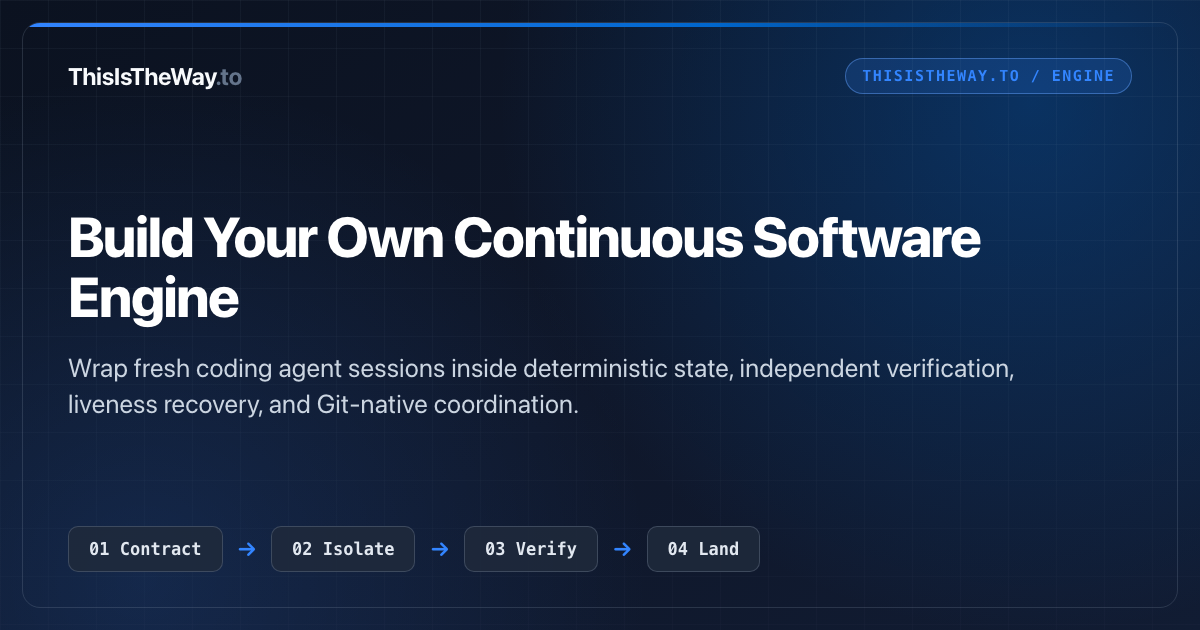
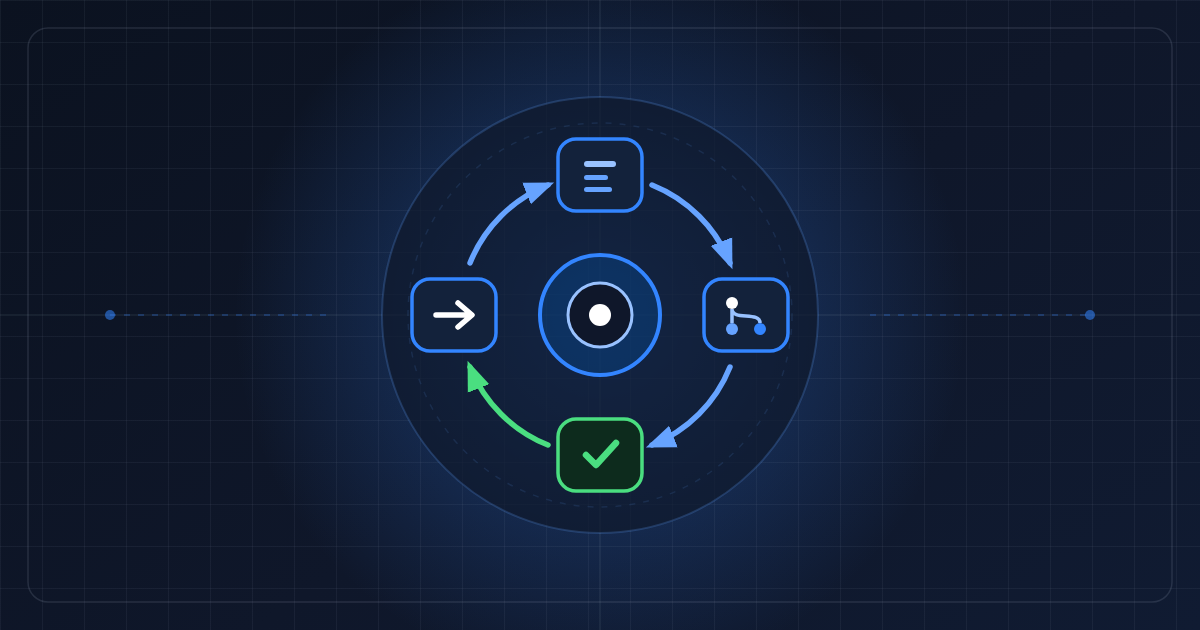
fix(seo): replace text-heavy OG images with center-safe geometric emblems
Compact link unfurlers center-crop og:image into a 1:1 thumbnail beside the title and description, which clipped wide text cards. Replace all eight OG cards with crisp, text-free architectural blueprint emblems centered inside the 630x630 safe square so both square thumbnails and wide 1200x630 social cards render cleanly.

diff --git a/site/src/main.tsx b/site/src/main.tsx
@@ -26,7 +26,7 @@ export async function prerender(data?: { url?: string }) {
 
   const meta = getPageMeta(data?.url);
   const canonicalUrl = `${SITE_ORIGIN}${meta.canonicalPath}`;
-  const imageUrl = `${SITE_ORIGIN}${meta.image}`;
+  const imageUrl = `${SITE_ORIGIN}${meta.image}?v=2`;
 
   return {
     ...result,
